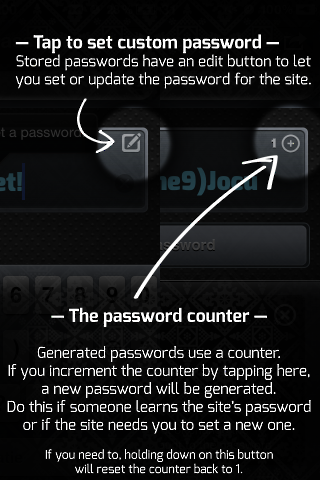
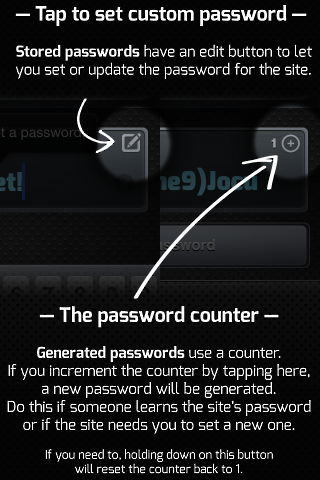
Updated guide + settings bundle + fixes.
[UPDATED]   Guide updated with UI changes.
[FIXED]     Don't animate pushing the unlock VC when appearance of main
            VC is not animated (eg. application startup).
[FIXED]     rememberKey -> rememberLogin in settings bundle.
[REMOVED]   saveKey from settings bundle.
[UPDATED]   Removed lock from the Default image; show a dummy avatar
            instead.
[FIXED]     Don't forget key when signing out.

Changed region(s): [[0.0312, 0.0, 0.9688, 0.1875], [0.125, 0.625, 0.875, 0.6875], [0.0938, 0.7188, 0.875, 0.75]]

diff --git a/Sources/MPMainViewController.m b/Sources/MPMainViewController.m
@@ -11,6 +11,7 @@
 #import "MPAppDelegate_Key.h"
 #import "MPAppDelegate_Store.h"
 #import "ATConnect.h"
+#import "MPUnlockViewController.h"
 
 
 @interface MPMainViewController (Private)
@@ -70,7 +71,8 @@
     [super viewWillAppear:animated];
 
     if (![MPAppDelegate get].activeUser)
-        [self.navigationController performSegueWithIdentifier:@"MP_Unlock" sender:self];
+        [self.navigationController presentViewController:[self.storyboard instantiateViewControllerWithIdentifier:@"MPUnlockViewController"]
+                                   animated:animated completion:nil];
     if (self.activeElement.user != [MPAppDelegate get].activeUser)
         self.activeElement                      = nil;
     self.searchDisplayController.searchBar.text = nil;
@@ -417,7 +419,6 @@
                          case 5:
 #endif
                          {
-                             [[MPAppDelegate get] forgetSavedKeyFor:[MPAppDelegate get].activeUser];
                              [[MPAppDelegate get] signOut];
                              break;
                          }

diff --git a/Sources/MPTypeViewController.m b/Sources/MPTypeViewController.m
@@ -61,16 +61,7 @@
     UITableViewCell *cell = [super tableView:tableView cellForRowAtIndexPath:indexPath];
 
     if ([delegate respondsToSelector:@selector(selectedType)])
-        if ([delegate selectedType] == [self typeAtIndexPath:indexPath])
-            [cell enumerateSubviews:^(UIView *subview, BOOL *stop, BOOL *recurse) {
-                if ([subview isKindOfClass:[UIImageView class]]) {
-                    UIImageView *imageView = ((UIImageView *)subview);
-                    if (!imageView.highlightedImage)
-                        imageView.highlightedImage = [imageView.image highlightedImage];
-                    imageView.highlighted          = YES;
-                    *stop = YES;
-                }
-            } recurse:NO];
+        cell.selected = ([delegate selectedType] == [self typeAtIndexPath:indexPath]);
 
     return cell;
 }

diff --git a/Sources/MPUnlockViewController.m b/Sources/MPUnlockViewController.m
@@ -114,7 +114,6 @@
 
     self.avatarToUser = [NSMutableDictionary dictionaryWithCapacity:3];
 
-    self.passwordField.text           = nil;
     self.avatarsView.decelerationRate = UIScrollViewDecelerationRateFast;
     self.avatarsView.clipsToBounds    = NO;
     self.nameLabel.layer.cornerRadius = 5;
@@ -349,6 +348,7 @@
         self.deleteTip.alpha           = 0;
     } else
         if (!self.selectedUser && self.passwordView.alpha == 1) {
+            self.passwordField.text        = nil;
             self.passwordView.alpha        = 0;
             self.avatarsView.center        = CGPointMake(160, 310);
             self.avatarsView.scrollEnabled = YES;

diff --git a/Sources/MPGuideViewController.m b/Sources/MPGuideViewController.m
@@ -24,6 +24,13 @@
     [self.scrollView autoSizeContent];
 }
 
+- (void)viewDidAppear:(BOOL)animated {
+    
+    [[UIApplication sharedApplication] setStatusBarHidden:YES withAnimation:animated? UIStatusBarAnimationSlide: UIStatusBarAnimationNone];
+    
+    [super viewDidAppear:animated];
+}
+
 - (void)viewWillDisappear:(BOOL)animated {
 
     [super viewWillDisappear:animated];
